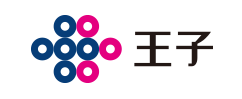
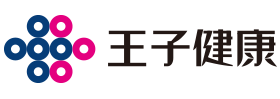
modify titles

diff --git a/modules/princegroup/app/views/princegroup/header.scala.html b/modules/princegroup/app/views/princegroup/header.scala.html
@@ -9,7 +9,7 @@
 <div class="nav-top">
     <div class="nav-box">
         <span >
-            <a href="https://weibo.com/"><img src=""></a>
+<!--            <a href="https://weibo.com/"><img src=""></a>
             <a href="" class="navbar-popup">
                 <img src="">
                 <div class="navbar-popup-out">
@@ -18,6 +18,7 @@
                 </div>
             </a>
             <a href="mailto:info@@oji.com"><img src=""></a>
+          -->
         </span>
         <span><img src="@routes.Assets.img("top-icon03.png")"> 400－800－2163</span>
         <span>
@@ -43,7 +44,16 @@
                     <span class="icon-bar"></span>
                     <span class="icon-bar"></span>
                 </button>
-                <a class="navbar-brand" href="./"><img src="@routes.Assets.img("1-1P52410420K47.png")"></a>
+                <a class="navbar-brand" href="./">
+                    @messages.lang.code match {
+
+                    case "en" => {
+                    <img src="@routes.Assets.img("logo-en.png")">
+                }
+                case _ => {
+                    <img src="@routes.Assets.img("logo-cn.png")">
+                }
+                }</a>
             </div>
             <div class="navbar-collapse collapse" id="example-navbar-collapse" aria-expanded="false" style="height: 120px;">
                 <ul class="nav navbar-nav">

diff --git a/modules/princegroup/app/views/princegroup/main.scala.html b/modules/princegroup/app/views/princegroup/main.scala.html
@@ -6,8 +6,8 @@
 <html>
 	<head>
 		<title>@title</title>
-		<meta name="keywords" content="">
-		<meta name="description" content="">
+		<meta name="keywords" content="王子健康,广东王子大健康有限公司,广东王子大健康有限公司官网">
+		<meta name="description" content="王子健康公司是一家拥有国际视野并领先世界的纸尿裤制造商，已专注纸尿裤研发生产10年。旗下拥有百年母婴品牌五羊，美国高端婴儿 纸尿裤品牌bibi，以及专业成人纸尿裤品牌湃迪。">
 		<link rel="shortcut icon" type="image/png" href="@routes.Assets.img("favicon.png")">
 		<link rel="stylesheet" type="text/css" href="@routes.Assets.css("bootstrap.min.css")">
 		<link rel="stylesheet" type="text/css" href="@routes.Assets.css("princegroup.css")">

diff --git a/modules/princegroup/app/views/princegroup/abouts/architecture.scala.html b/modules/princegroup/app/views/princegroup/abouts/architecture.scala.html
@@ -6,7 +6,7 @@
 
 <div class="content-box-box" style="display: none;">
     <div class="about-box-til">
-        <div><a href="@routes.Application.">@Messages("princegroup.home") </a><a href="@routes.Application.about()">@Messages("princegroup.aboutoji")</a> /  <span>@Messages("princegroup.about.architecture")</span></div>
+        <div><a href="@routes.Application.index">@Messages("princegroup.home") </a><a href="@routes.Application.about()">@Messages("princegroup.aboutoji")</a> /  <span>@Messages("princegroup.about.architecture")</span></div>
         <div>@Messages("princegroup.about.architecture")</div>
     </div>
 

diff --git a/modules/princegroup/app/views/princegroup/abouts/history.scala.html b/modules/princegroup/app/views/princegroup/abouts/history.scala.html
@@ -8,7 +8,7 @@
 
 <div class="content-box-box" style="display: block;">
     <div class="about-box-til">
-        <div><a href="@routes.Application.">@Messages("princegroup.home") </a><a href="@routes.Application.about()">@Messages("princegroup.aboutoji")</a> /  <span>@Messages("princegroup.about.history")</span></div>
+        <div><a href="@routes.Application.index">@Messages("princegroup.home") </a><a href="@routes.Application.about()">@Messages("princegroup.aboutoji")</a> /  <span>@Messages("princegroup.about.history")</span></div>
         <div>@Messages("princegroup.about.history")</div>
     </div>
 

diff --git a/modules/princegroup/app/views/princegroup/abouts/advantages.scala.html b/modules/princegroup/app/views/princegroup/abouts/advantages.scala.html
@@ -5,7 +5,7 @@
 <!--核心优势-->
 <div class="content-box-box" style="display: none;">
     <div class="about-box-til">
-        <div><a href="@routes.Application.">@Messages("princegroup.home")</a>
+        <div><a href="@routes.Application.index">@Messages("princegroup.home")</a>
             <a href="@routes.Application.about()">@Messages("princegroup.aboutoji")</a> / <span>@Messages("princegroup.about.advantages")</span></div>
         <div>@Messages("princegroup.about.advantages")</div>
     </div>

diff --git a/modules/princegroup/app/views/princegroup/langpage/contactCn.scala.html b/modules/princegroup/app/views/princegroup/langpage/contactCn.scala.html
@@ -5,7 +5,7 @@
     <div>
         <div>
             <h2>
-                王子大健康-广州总部</h2>
+                王子健康-广州总部</h2>
             <p style="font-size:14px;margin-top:0px;margin-bottom:0px;line-height:28px;font-family:&quot;white-space:normal;">
                 地址：广州市天河区珠江新城兴国路21号广物中心六楼</p>
             <p style="font-size:14px;margin-top:0px;margin-bottom:0px;line-height:28px;font-family:&quot;white-space:normal;">

diff --git a/modules/princegroup/app/views/princegroup/abouts/groupdata.scala.html b/modules/princegroup/app/views/princegroup/abouts/groupdata.scala.html
@@ -4,7 +4,7 @@
 
 <div class="content-box-box" style="display: none;">
     <div class="about-box-til">
-        <div><a href="@routes.Application.">@Messages("princegroup.home") </a>
+        <div><a href="@routes.Application.index">@Messages("princegroup.home") </a>
             <a href="@routes.Application.about()">@Messages("princegroup.aboutoji")</a> /  <span>@Messages("princegroup.about.groupdata")</span></div>
         <div>@Messages("princegroup.about.groupdata")</div>
     </div>

diff --git a/modules/princegroup/app/views/princegroup/abouts/historyCn.scala.html b/modules/princegroup/app/views/princegroup/abouts/historyCn.scala.html
@@ -47,7 +47,7 @@
             成为广东省医药企业管理协会副会长单位<br>
             荣获广东省孕婴用品协会“创新新品奖”<br>
             纸尿裤荣获母婴类年度品质大奖金麦奖<br>
-            成功完成产品升级，实现企业战略调整，集团更名为OJI王子集团</div>
+            成功完成产品升级，实现企业战略调整，集团更名为王子健康集团</div>
     </div>
 </div>
 

diff --git a/modules/princegroup/app/views/princegroup/abouts/culture.scala.html b/modules/princegroup/app/views/princegroup/abouts/culture.scala.html
@@ -4,7 +4,7 @@
 
 <div class="content-box-box" style="display: none;">
     <div class="about-box-til">
-        <div><a href="@routes.Application.">@Messages("princegroup.home") </a>
+        <div><a href="@routes.Application.index">@Messages("princegroup.home") </a>
             <a href="@routes.Application.about()">@Messages("princegroup.aboutoji")</a> /  <span>@Messages("princegroup.about.culture")</span></div>
 
         @messages.lang.code match {
